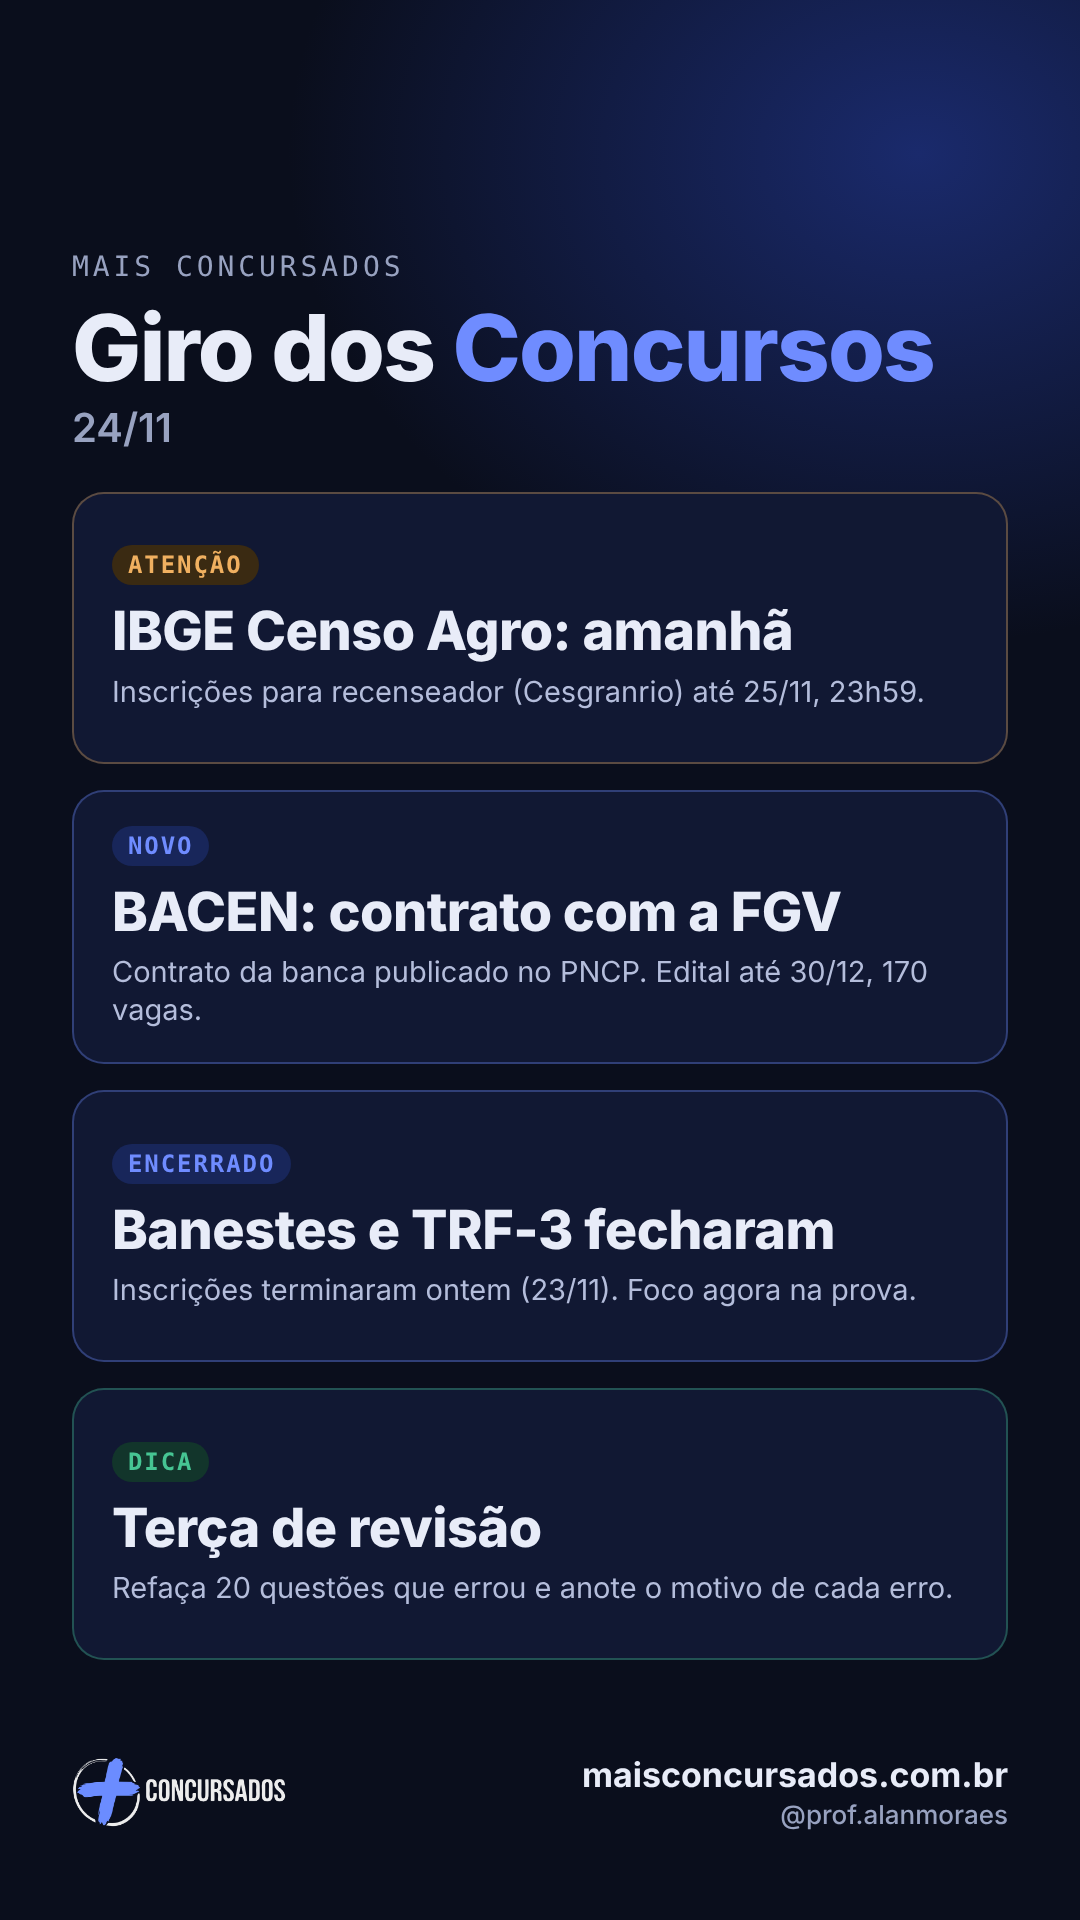
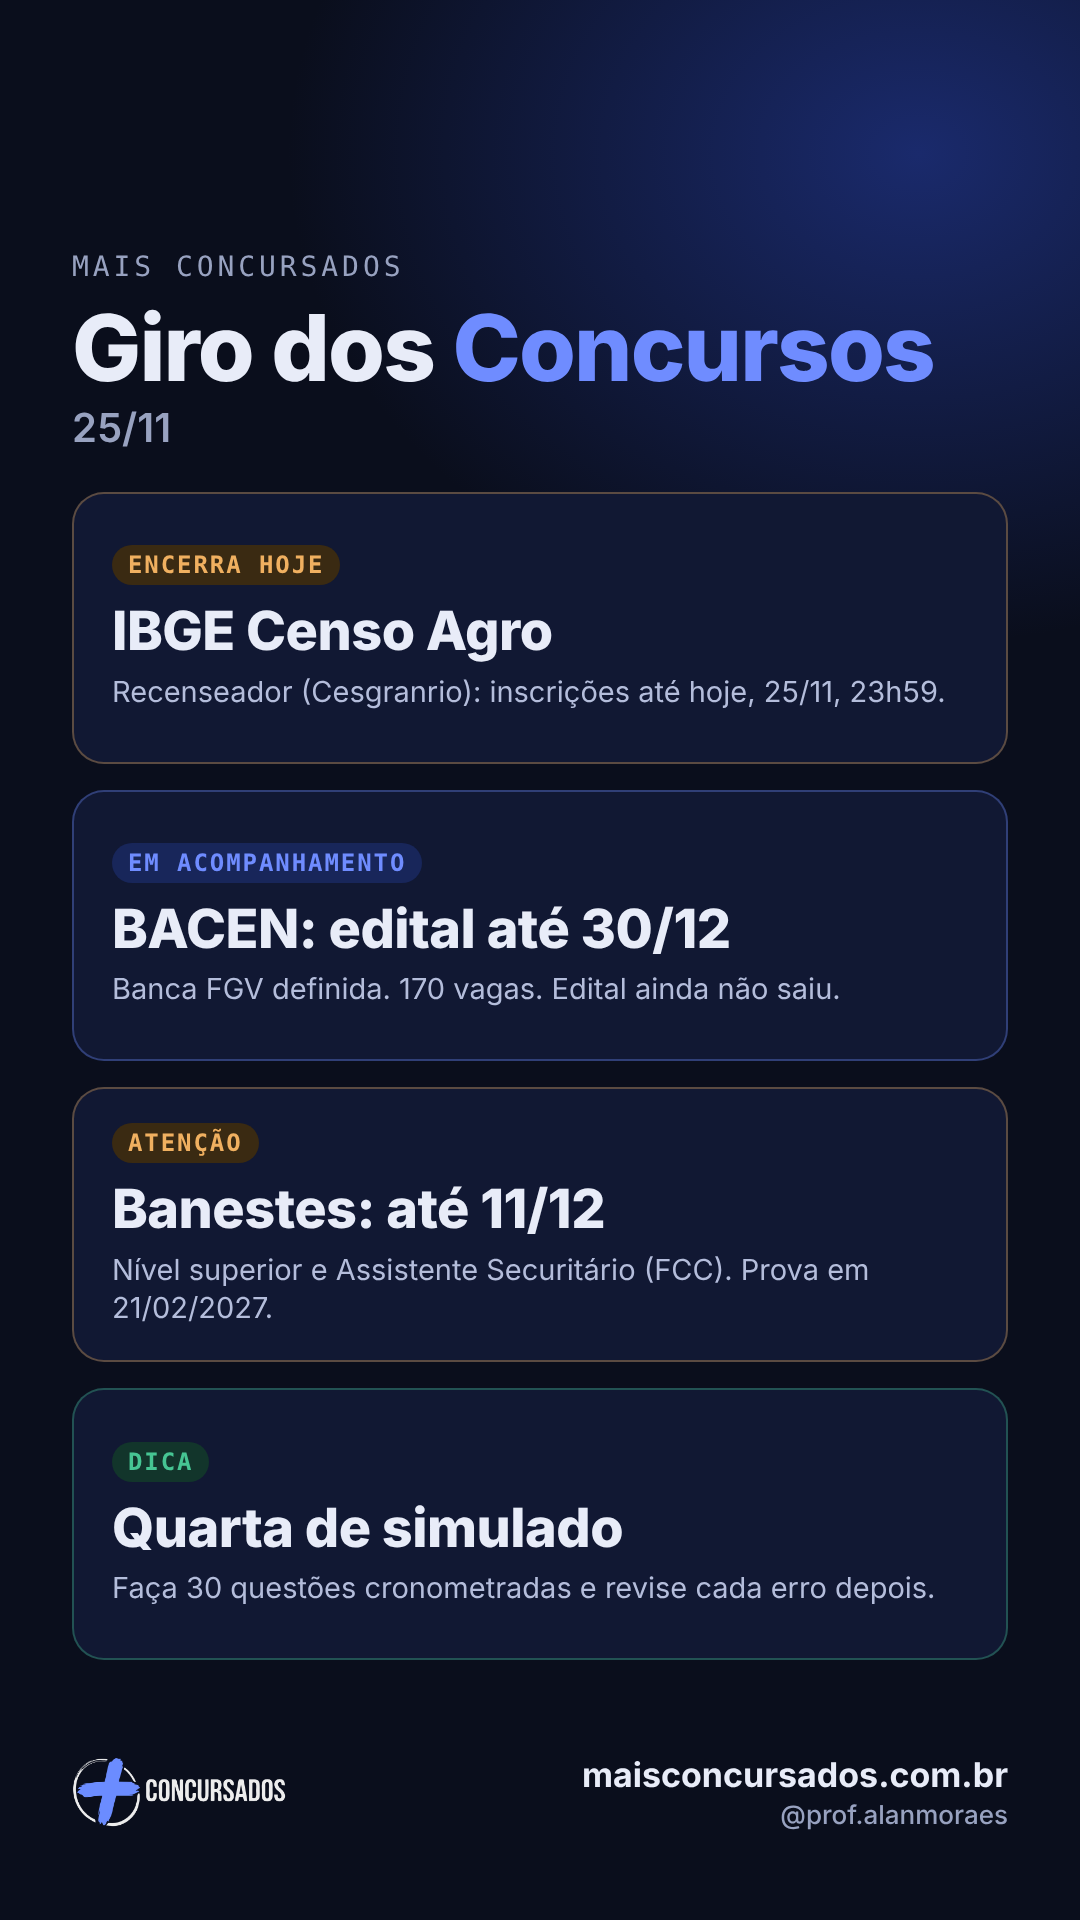
Giro dos Concursos 25/11: atualização diária e arte de Stories
Claude-Session: https://claude.ai/code/session_01A4P6MXM2GJvkhy9fiTnerb

diff --git a/site/editais.html b/site/editais.html
@@ -48,7 +48,7 @@
 </main>
 <footer><div class="wrap"><div><h4>Mais Concursados</h4><p>Editais de concursos de todas as áreas, com destaque para os bancários, e estudo com método para quem quer a aprovação. Por Alan Moraes, bancário, professor e mentor para concursos.</p></div><div><h4>Navegue</h4><ul><li><a href="editais.html">Editais</a></li><li><a href="cursos.html">Cursos</a></li><li><a href="blog.html">Blog</a></li><li><a href="mentorias.html">Mentorias</a></li><li><a href="area-do-aluno.html">Área do aluno</a></li></ul></div><div><h4>Institucional</h4><ul><li><a href="sobre.html">Sobre o Alan</a></li><li><a href="contato.html">Contato</a></li><li><a href="privacidade.html">Política de privacidade</a></li></ul></div><p class="legal">© 2026 Mais Concursados · maisconcursados.com.br. As informações de editais vêm de portais de notícias e devem ser conferidas no edital oficial. O Mais Concursados não é banca organizadora nem órgão público.</p></div></footer>
 <script type="application/json" id="editais-data">{
- "atualizadoEm": "2026-11-24",
+ "atualizadoEm": "2026-11-25",
  "aviso": "Conferido em 13/10/2026 no texto dos editais e em pelo menos duas fontes independentes. Os sites das bancas bloquearam a leitura automática, por isso confirme sempre no edital oficial antes de se inscrever.",
  "editais": [
   {

diff --git a/site/index.html b/site/index.html
@@ -72,7 +72,7 @@
 </main>
 <footer><div class="wrap"><div><h4>Mais Concursados</h4><p>Editais de concursos de todas as áreas, com destaque para os bancários, e estudo com método para quem quer a aprovação. Por Alan Moraes, bancário, professor e mentor para concursos.</p></div><div><h4>Navegue</h4><ul><li><a href="editais.html">Editais</a></li><li><a href="cursos.html">Cursos</a></li><li><a href="blog.html">Blog</a></li><li><a href="mentorias.html">Mentorias</a></li><li><a href="area-do-aluno.html">Área do aluno</a></li></ul></div><div><h4>Institucional</h4><ul><li><a href="sobre.html">Sobre o Alan</a></li><li><a href="contato.html">Contato</a></li><li><a href="privacidade.html">Política de privacidade</a></li></ul></div><p class="legal">© 2026 Mais Concursados · maisconcursados.com.br. As informações de editais vêm de portais de notícias e devem ser conferidas no edital oficial. O Mais Concursados não é banca organizadora nem órgão público.</p></div></footer>
 <script type="application/json" id="editais-data">{
- "atualizadoEm": "2026-11-24",
+ "atualizadoEm": "2026-11-25",
  "aviso": "Conferido em 13/10/2026 no texto dos editais e em pelo menos duas fontes independentes. Os sites das bancas bloquearam a leitura automática, por isso confirme sempre no edital oficial antes de se inscrever.",
  "editais": [
   {
